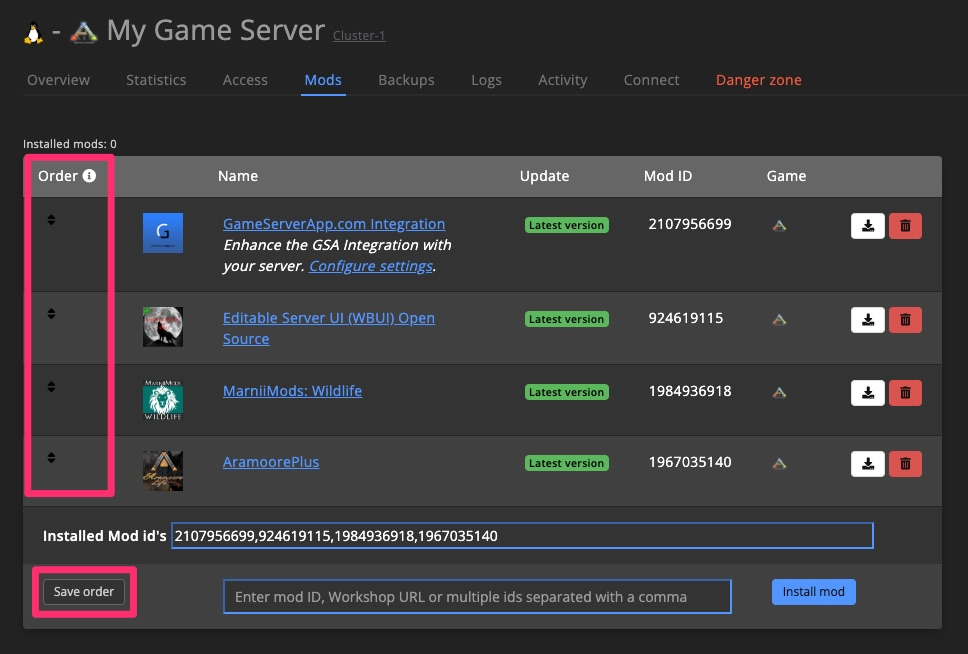
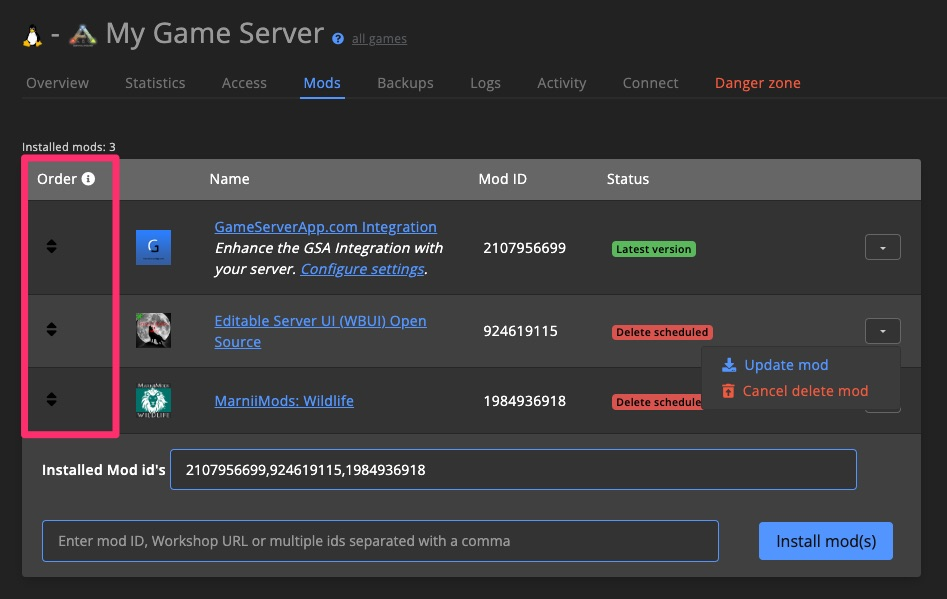
mod scheduled delete + updated mod interface

diff --git a/Documentation/docs/dashboard/game_servers/mods_plugins.md b/Documentation/docs/dashboard/game_servers/mods_plugins.md
@@ -28,14 +28,18 @@ For example, you can find the [GameServerApp.com integration mod on Steam >](htt
 ### Change load order
 Certain mods need to load in using a specific load order. The load order can be changed by grabbing the <icon icon="fa-solid fa-sort" size="md" /> and drag the mod to the desired position.
 
-Make sure to hit `Save order` to save the new load order.
-
 ![Mods & plugins - mod load order](/img/dashboard/gameserver/mods_plugins/change_mod_load_order.jpg)
 
 ### Update & delete
-Manually updating or deleting mods is only possible when the game server is turned off. 
+Manually updating & deleting mods is only possible when the game server is turned off.
+
+It is possible to schedule a mod for removal when the game server is running. This will remove the mod on the next shutdown.
 
 ![Mods & plugins - update & delete mod](/img/dashboard/gameserver/mods_plugins/update_delete_mod.jpg)
+
+Scheduled mod removals can be cancelled too.
+
+![Mods & plugins - update & delete mod](/img/dashboard/gameserver/mods_plugins/mod_cancel_scheduled_delete.jpg)
 
 :::tip mod manifest ID
 When you want to double check whether the mod was updated, hover over the `Latest version` badge to see the manifest ID. This ID corresponds with the releases on the Steam workshop page.
